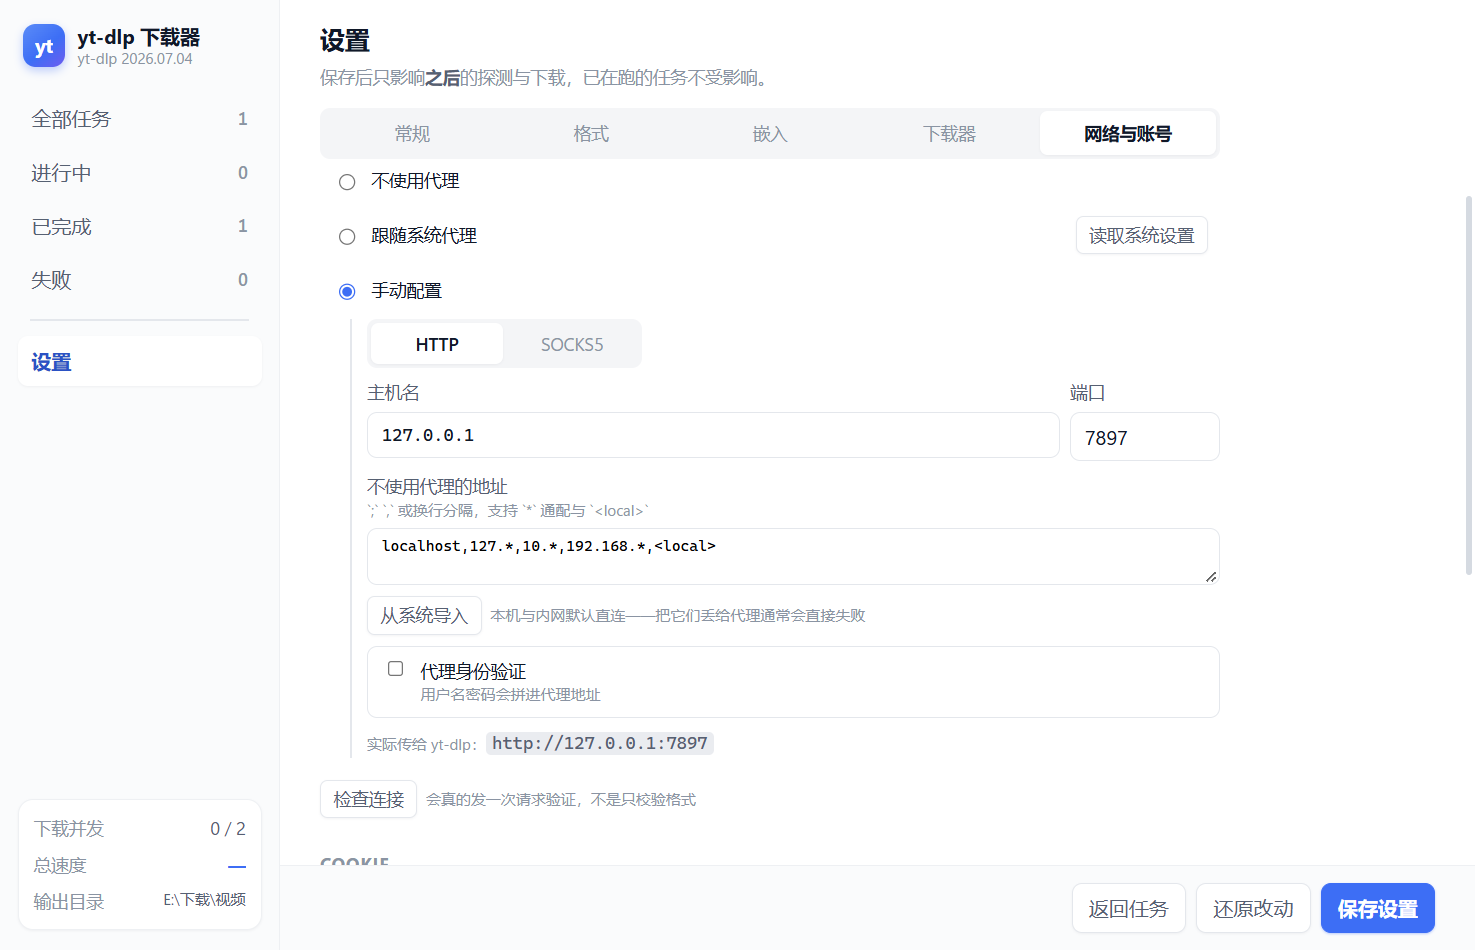
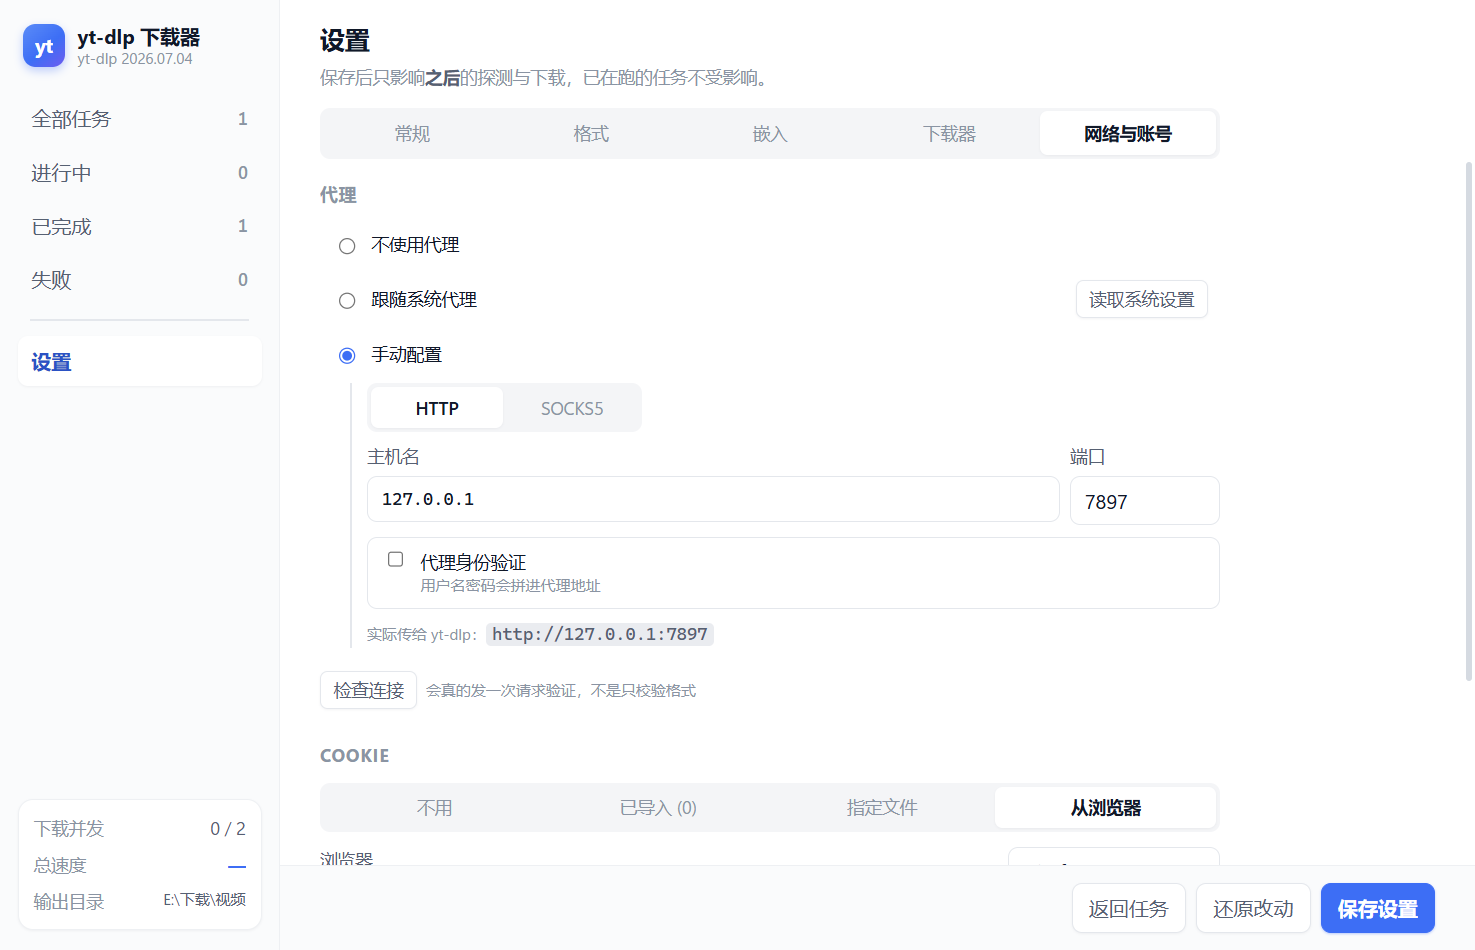
去掉代理绕过列表设置；修掉归档 BOM 导致首行失效
绕过列表：
- 「不使用代理的地址」输入框与「从系统导入」按钮一并移除。本机与内网
  永远直连是**不需要用户决策**的事，留个可编辑框只会让人把它改坏，
  然后本地请求全走代理直接失败。
- 名单改为内建常量 proxy::LOCAL_BYPASS，手工与系统模式共用；
  「跟随系统代理」在注册表 ProxyOverride 为空时也回落到它。
- 废弃的 proxyBypass 键在 normalize_settings 里显式删除
  （merge_defaults 只补键不删键，否则 config.json 里会一直挂着
  一个看起来还能用的开关）。

归档 BOM（实测出来的真 bug）：
- yt-dlp 用 encoding='utf-8' 读 --download-archive，不认 BOM，
  于是归档首行的 `<extractor> <id>` 比对失败、该视频被重新下载。
  只有首行受影响，所以看上去归档是好的。
  实测：`generic clip` 命中跳过；`\ufeffgeneric clip` 输出 clip（没命中）。
- remove_from_archive 读时去 BOM、写回不写 BOM；逻辑抽成
  strip_archive_ids 以便单测钉住。
- 顺带修掉重试时 removed 在外层累加导致的重复计数。

测试：core 140 + shell 64 全绿；vue-tsc 与 vite build 通过。
重录 docs/screenshots/proxy-manual.png（原来那张还有输入框）。

diff --git a/src/components/SettingsPanel.vue b/src/components/SettingsPanel.vue
@@ -261,16 +261,6 @@ function setProtocol(p: 'http' | 'socks5') {
   if (wasDefault) s.proxyPort = p === 'socks5' ? 1080 : 8080
 }
 
-async function importSystemBypass() {
-  try {
-    const b = await api.systemProxyBypass()
-    if (b.trim()) s.proxyBypass = b
-    else importError.value = '系统没有配置「不为以下项使用代理」。'
-  } catch (e) {
-    importError.value = `导入失败：${String(e)}`
-  }
-}
-
 /**
  * 「实际传给 yt-dlp」的预览。
  *
@@ -1042,19 +1032,6 @@ const templateWarning = computed(() => {
                   <span>端口</span>
                   <input v-model.number="s.proxyPort" type="number" min="1" max="65535" />
                 </label>
-              </div>
-
-              <label class="field">
-                <span>
-                  不使用代理的地址<em>用 ; , 或换行分隔；支持 * 通配与 &lt;local&gt;</em>
-                </span>
-                <textarea v-model="s.proxyBypass" class="mono" rows="2" spellcheck="false"></textarea>
-              </label>
-              <div class="row-inline">
-                <button class="btn sm" type="button" @click="importSystemBypass">
-                  从系统导入
-                </button>
-                <span class="ver">本机与内网默认直连——把它们丢给代理通常会直接失败</span>
               </div>
 
               <label class="check">

diff --git a/src/ipc.ts b/src/ipc.ts
@@ -70,8 +70,6 @@ const tauriBackend = {
       resolved: string | null
       usesPac: boolean
     }>('system_proxy'),
-  /** 把系统那套绕过列表（ProxyOverride）拿过来用。 */
-  systemProxyBypass: () => invoke<string>('system_proxy_bypass'),
   /** 原生「选择文件夹」对话框。返回 null 表示用户取消。 */
   pickFolder: (initial?: string) => invoke<string | null>('pick_folder', { initial: initial ?? null }),
   /** 原生「选择文件」对话框。返回 null 表示用户取消。 */
@@ -329,10 +327,6 @@ class MockBackend {
       resolved: null,
       usesPac: false,
     }
-  }
-
-  async systemProxyBypass(): Promise<string> {
-    return ''
   }
 
   async pause(id: string): Promise<void> {
@@ -607,7 +601,6 @@ export const api = isTauri()
       pickFolder: (initial?: string) => mock().pickFolder(initial),
       pickFile: (initial?: string) => mock().pickFile(initial),
       systemProxy: () => mock().systemProxy(),
-      systemProxyBypass: () => mock().systemProxyBypass(),
       probeFormats: (url: string) => mock().probeFormats(url),
       getSettings: () => mock().getSettings(),
       saveSettings: (s: Settings) => mock().saveSettings(s),

diff --git a/src/types.ts b/src/types.ts
@@ -197,8 +197,6 @@ export interface Settings {
   proxyProtocol: 'http' | 'socks5'
   proxyHost: string
   proxyPort: number
-  /** 绕过列表：`;` `,` 换行分隔，支持 `*` 通配与 `<local>`。 */
-  proxyBypass: string
   proxyAuth: boolean
   proxyUser: string
   proxyPassword: string

diff --git a/src/mock.ts b/src/mock.ts
@@ -232,7 +232,6 @@ export const defaultSettings: Settings = {
   proxyProtocol: 'http',
   proxyHost: '127.0.0.1',
   proxyPort: 7897,
-  proxyBypass: 'localhost,127.*,10.*,192.168.*,<local>',
   proxyAuth: false,
   proxyUser: '',
   proxyPassword: '',

diff --git a/src-tauri/src/lib.rs b/src-tauri/src/lib.rs
@@ -21,10 +21,6 @@ use state::{AppState, Task};
 use tauri::{AppHandle, Emitter, Manager, State};
 
 /// 与 `src/mock.ts` 的 `defaultSettings` 保持同构。
-/// 默认绕过的地址：本机与内网。代理软件通常自己也会绕，但**宿主这一层必须也绕**——
-/// 实测把 `127.0.0.1` 的本地测试服务器丢给代理会直接连不上。
-const DEFAULT_PROXY_BYPASS: &str = "localhost,127.*,10.*,192.168.*,<local>";
-
 fn default_settings() -> Value {
     json!({
         // 必须是真实可用的目录：空串会让设置页与侧栏都显示空白
@@ -51,8 +47,6 @@ fn default_settings() -> Value {
         "proxyProtocol": "http",
         "proxyHost": "",
         "proxyPort": 8080,
-        // 本机与内网永远不该走代理——实测本地回环服务器走了代理就直接失败
-        "proxyBypass": DEFAULT_PROXY_BYPASS,
         "proxyAuth": false,
         "proxyUser": "",
         "proxyPassword": "",
@@ -168,6 +162,12 @@ fn normalize_settings(s: Value) -> Value {
     // 升级时会把用户已经配好的代理静默丢掉。
     let s = migrate_proxy(s);
     let mut s = merge_defaults(default_settings(), s);
+    // `proxyBypass` 已废弃：直连名单现在是 `proxy::LOCAL_BYPASS` 常量，用户不可配。
+    // `merge_defaults` 只补键不删键，所以老配置里的这个键会一直留在 config.json 里，
+    // 看起来像个能用的开关。这里显式丢掉，避免误导。
+    if let Some(obj) = s.as_object_mut() {
+        obj.remove("proxyBypass");
+    }
     let blank = s
         .get("outputDir")
         .and_then(|v| v.as_str())
@@ -307,12 +307,6 @@ fn system_proxy() -> Value {
         // yt-dlp **不支持 PAC**，检测到就得如实告诉用户，别让他以为配了就能用
         "usesPac": !p.auto_config_url.trim().is_empty(),
     })
-}
-
-/// 把系统那套绕过列表（`ProxyOverride`）拿过来用。
-#[tauri::command]
-fn system_proxy_bypass() -> String {
-    sysproxy::current().bypass
 }
 
 #[tauri::command]
@@ -502,6 +496,31 @@ fn remove_many(app: AppHandle, ids: Vec<String>) {
     let _ = app.emit("task://update", app.state::<AppState>().snapshot());
 }
 
+/// 从归档文本里删掉含 `ids` 的行，返回（新文本, 删除条数）。
+///
+/// 抽成纯函数是因为 BOM 这个坑只有单测拦得住：`read_to_string` 不去 BOM，
+/// 而 yt-dlp 读归档用的是 `encoding='utf-8'`（**同样不认 BOM**），于是归档
+/// 首行会静默失效——实测该视频会被重新下载。写回时一律不写 BOM。
+fn strip_archive_ids(content: &str, ids: &[String]) -> (String, usize) {
+    let content = content.strip_prefix('\u{feff}').unwrap_or(content);
+    let mut removed = 0usize;
+    let kept: Vec<&str> = content
+        .lines()
+        .filter(|line| {
+            let hit = ids.iter().any(|id| line.contains(id.as_str()));
+            if hit {
+                removed += 1;
+            }
+            !hit
+        })
+        .collect();
+    let mut out = kept.join("\n");
+    if !out.is_empty() {
+        out.push('\n');
+    }
+    (out, removed)
+}
+
 /// 从 download-archive 移除条目，使视频可重新下载。
 ///
 /// ⚠ 仅此一步**不足以**重新下载：成品文件仍在磁盘时 yt-dlp 会跳过并返回 exit=0
@@ -521,7 +540,8 @@ fn remove_from_archive(state: State<AppState>, ids: Vec<String>) -> Result<usize
     }
 
     // 归档写入在 yt-dlp 侧有 LockFileEx 独占锁；宿主改写必须容忍占用并重试。
-    let mut removed = 0usize;
+    // ⚠ `removed` 必须在循环**内**统计：写失败重试时如果累加，会把同一条
+    // 重复计数，界面上报出「移除了 2 条」而实际只删了 1 条。
     for _attempt in 0..5 {
         let content = match std::fs::read_to_string(&archive) {
             Ok(c) => c,
@@ -530,20 +550,7 @@ fn remove_from_archive(state: State<AppState>, ids: Vec<String>) -> Result<usize
                 continue;
             }
         };
-        let kept: Vec<&str> = content
-            .lines()
-            .filter(|line| {
-                let hit = ids.iter().any(|id| line.contains(id.as_str()));
-                if hit {
-                    removed += 1;
-                }
-                !hit
-            })
-            .collect();
-        let mut out = kept.join("\n");
-        if !out.is_empty() {
-            out.push('\n');
-        }
+        let (out, removed) = strip_archive_ids(&content, &ids);
         match std::fs::write(&archive, out) {
             Ok(_) => return Ok(removed),
             Err(_) => std::thread::sleep(std::time::Duration::from_millis(120)),
@@ -915,7 +922,6 @@ pub fn run() {
             apply_ytdlp_update,
             test_proxy,
             system_proxy,
-            system_proxy_bypass,
         ])
         .run(tauri::generate_context!())
         .expect("error while running tauri application");
@@ -1060,13 +1066,35 @@ mod tests {
         assert_eq!(s["proxyMode"], json!("none"));
     }
 
-    /// 老配置里没有 proxyBypass，补全后应当拿到「本机 + 内网」的默认值。
+    /// 绕过列表已改为**内建常量**，设置里不该再出现这个键——
+    /// 留着它意味着界面上又会冒出一个没人改的输入框。
     #[test]
-    fn missing_bypass_gets_local_defaults() {
+    fn proxy_bypass_is_no_longer_a_setting() {
         let s = normalize_settings(json!({}));
-        let b = s["proxyBypass"].as_str().unwrap();
-        assert!(b.contains("127.*"), "实际: {b}");
-        assert!(b.contains("localhost"));
-        assert!(b.contains("<local>"));
+        assert!(s.get("proxyBypass").is_none(), "实际: {s}");
+
+        // 老配置里残留的键要被清掉，否则 config.json 里一直挂着一个
+        // 看起来能用的开关（`merge_defaults` 只补键不删键）。
+        let s = normalize_settings(json!({ "proxyBypass": "example.com", "proxyMode": "manual" }));
+        assert!(s.get("proxyBypass").is_none(), "实际: {s}");
+    }
+
+    /// 归档首行的 BOM 会静默废掉那一条记录（见 `strip_archive_ids` 的注释）。
+    #[test]
+    fn archive_removal_strips_bom_and_never_writes_one() {
+        let ids = vec!["bilibili BV1dK93BxESx".to_string()];
+        let (out, removed) =
+            strip_archive_ids("\u{feff}bilibili BV1dK93BxESx\nyoutube tW34TyACBIQ\n", &ids);
+        assert_eq!(removed, 1);
+        assert_eq!(out, "youtube tW34TyACBIQ\n");
+        assert!(!out.starts_with('\u{feff}'));
+
+        // 没有 BOM 时行为不变
+        let (out, removed) = strip_archive_ids("bilibili BV1dK93BxESx\n", &ids);
+        assert_eq!((out.as_str(), removed), ("", 1));
+
+        // 删空之后不该留一个空行
+        let (out, removed) = strip_archive_ids("youtube tW34TyACBIQ\n", &ids);
+        assert_eq!((out.as_str(), removed), ("youtube tW34TyACBIQ\n", 0));
     }
 }

diff --git a/src-tauri/src/runner.rs b/src-tauri/src/runner.rs
@@ -471,15 +471,21 @@ pub fn proxy_config_of(settings: &Value) -> Option<ytdlp_core::ProxyConfig> {
                 port: if port == 0 { protocol.default_port() } else { port },
                 user,
                 password,
-                bypass: ytdlp_core::parse_bypass(&s("proxyBypass")),
+                // 内建的本机 / 内网直连，**不读设置**（见 `LOCAL_BYPASS` 的说明）
+                bypass: ytdlp_core::parse_bypass(ytdlp_core::proxy::LOCAL_BYPASS),
             })
         }
         "system" => {
             let sp = crate::sysproxy::current();
             let url = sp.proxy_url()?;
             let mut cfg = ytdlp_core::parse_proxy_url(&url)?;
-            // 系统的绕过列表也一并尊重——用户既然选「跟随系统」，就该跟完整
-            cfg.bypass = ytdlp_core::parse_bypass(&sp.bypass);
+            // 系统的绕过列表也一并尊重——用户既然选「跟随系统」，就该跟完整。
+            // 它为空时回落到内建的本机/内网直连，免得把自己也代理出去。
+            cfg.bypass = if sp.bypass.trim().is_empty() {
+                ytdlp_core::parse_bypass(ytdlp_core::proxy::LOCAL_BYPASS)
+            } else {
+                ytdlp_core::parse_bypass(&sp.bypass)
+            };
             Some(cfg)
         }
         _ => None,
@@ -861,14 +867,23 @@ mod tests {
 
     /// **这是绕过列表的关键**：命中就返回 None（直连），而不是把 proxy 传下去。
     /// 实测 yt-dlp 在给了 --proxy 时不会理 no_proxy。
+    ///
+    /// 名单是内建常量 `proxy::LOCAL_BYPASS`。这里**故意塞一个 `proxyBypass` 键**
+    /// 来固定「老配置残留的键不再有任何作用」——它既不能扩大也不能收窄名单。
     #[test]
     fn bypass_makes_request_go_direct() {
         let s = json!({
             "proxyMode": "manual", "proxyHost": "127.0.0.1", "proxyPort": 7897,
-            "proxyBypass": "localhost,127.*,192.168.*",
+            "proxyBypass": "example.com",
         });
         assert_eq!(proxy_for(&s, "http://127.0.0.1:8797/clip.mp4"), None);
         assert_eq!(proxy_for(&s, "http://192.168.1.9/x"), None);
+        assert_eq!(proxy_for(&s, "http://localhost:8797/clip.mp4"), None);
+        // `example.com` 曾被写进那个废弃键里，现在不生效：照常走代理。
+        assert_eq!(
+            proxy_for(&s, "https://example.com/x").as_deref(),
+            Some("http://127.0.0.1:7897")
+        );
         // 外部站点照常走代理。
         assert_eq!(
             proxy_for(&s, "https://www.youtube.com/watch?v=x").as_deref(),
@@ -878,9 +893,8 @@ mod tests {
 
     #[test]
     fn url_without_host_is_not_bypassed() {
-        let s = json!({ "proxyMode": "manual", "proxyHost": "h", "proxyPort": 1,
-                        "proxyBypass": "*" });
-        // host 解析不出来时不该被 "*" 命中而变成直连。
+        let s = json!({ "proxyMode": "manual", "proxyHost": "h", "proxyPort": 1 });
+        // host 解析不出来时不该被内建名单命中而变成直连。
         assert_eq!(proxy_of(&s).as_deref(), Some("http://h:1"));
     }
 

diff --git a/crates/ytdlp-core/src/proxy.rs b/crates/ytdlp-core/src/proxy.rs
@@ -80,6 +80,20 @@ pub fn parse_bypass(raw: &str) -> Vec<String> {
         .collect()
 }
 
+/// **内建**的绕过列表：本机与内网永远直连。
+///
+/// 这不是可配置项，刻意如此：
+///
+/// - 把 `127.0.0.1` 丢给代理**必然失败**（实测本地 HTTP 服务直接连不上），
+///   而配代理本来就是为了访问外网，本机流量走代理没有任何意义；
+/// - 之前把它做成一个可编辑文本框 + 一个「从系统导入」按钮，
+///   结果是绝大多数人不会碰的输入框占着版面，还要顺带解释 `*` 通配与
+///   `<local>` 两套语法。
+///
+/// 语义与 Windows 的 `ProxyOverride` 一致，所以「跟随系统代理」时
+/// 可以直接把系统那份也交给同一个匹配器。
+pub const LOCAL_BYPASS: &str = "localhost,127.*,10.*,192.168.*,<local>";
+
 /// userinfo 段要按 RFC 3986 转义，否则密码里的 `@`、`:`、`/` 会把 URL 拆坏。
 fn encode_userinfo(s: &str) -> String {
     let mut out = String::with_capacity(s.len());

diff --git a/README.md b/README.md
@@ -115,7 +115,9 @@ yt-dlp 有两种发行形态，**只有一种能直接放进 `externalBin`**：
 | **`--downloader` 传存在的绝对路径会被静默忽略** | 不报错，直接回落到内置下载器——以为在用 aria2c，其实没有 | 只传裸名 `aria2c`，把自带目录**前置到子进程 PATH**（DESIGN §11.6） |
 | **aria2c 不在 PATH 时 yt-dlp 也是静默回落** | 同上，完全没有提示 | 宿主自己先验证 aria2c，找不到就关掉该选项并在任务里告警 |
 | **aria2c 是 GPLv2，yt-dlp 是 Unlicense** | 两者许可证不同，随包分发必须一并给许可证原文与源码出处 | 许可证文本进 `bundle.resources`，见 `binaries/README-third-party.md` |
+| **归档文件有 BOM 时首行静默失效** | yt-dlp 用 `encoding='utf-8'` 读归档，**不认 BOM**；首行比对失败 → 该视频被重新下载。后面几行正常，所以很难发现 | 宿主读写归档都去 BOM、写回不写 BOM（DESIGN §12.1）；手工修归档别用 `Out-File -Encoding utf8` |
 | **Windows PowerShell 5.1 的 `Get-Content -Raw` 按 ANSI 读 UTF-8** | 读改写一次就把整个文件的中文变成乱码，且**不可逆** | 改文件一律用编辑工具；确要用脚本时显式 `[System.IO.File]::ReadAllText($p, [Text.Encoding]::UTF8)` |
+| **`Out-File -Encoding utf8` 在 5.1 里写 BOM** | 不只是编码问题：把 JSON 发给 GitHub API 会 `Problems parsing JSON`，给 yt-dlp 的归档会废掉首行 | 生成给机器读的文件用 `[System.IO.File]::WriteAllText($p, $s, [Text.UTF8Encoding]::new($false))` |
 
 ### 关于 capabilities（踩过的坑）
 

diff --git a/RESUME.md b/RESUME.md
@@ -196,6 +196,7 @@ cargo test               # 核心层 + 外壳
 | **`gh api` / `gh run` 在本机走代理时全报 `EOF`** | GET、POST 都失败，但同样的请求用 `Invoke-RestMethod` 全通 | 建仓库、查运行状态改用 `Invoke-RestMethod` + `gh auth token`；`git push` 不受影响 |
 | **`gh repo create` 删不掉仓库** | 默认 scope 只有 `repo`/`workflow`/`gist`/`read:org`，删除返回 403 | 误建的仓库要么网页手动删，要么 `gh auth refresh -s delete_repo` |
 | **`Out-File -Encoding utf8` 会写 BOM** | 拿去当 JSON 请求体，GitHub 回 `Problems parsing JSON` | 用 `gh api -f key=value` 构造，或 `[Text.Encoding]::UTF8.GetBytes()` 传字节 |
+| **归档文件带 BOM 时首行静默失效** | yt-dlp 用 `encoding='utf-8'` 读归档，**不认 BOM**：首行比对不上 → 该视频重新下载；**后面几行正常**，所以看着像归档在工作。实测 `generic clip` 命中跳过，`\ufeffgeneric clip` 输出 `clip`（没命中） | `remove_from_archive` 读时 `strip_prefix('\u{feff}')`、写回不写 BOM（DESIGN §12.1）；`strip_archive_ids` 有单测钉住 |
 
 ## 测试资源
 
